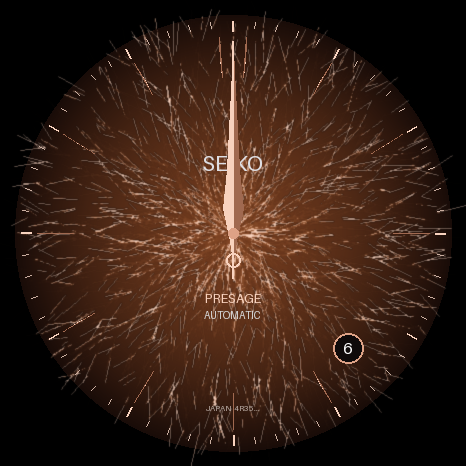
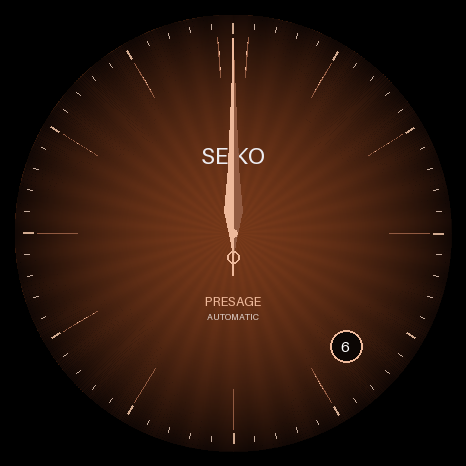
refactor: authentic sunburst dial and 3D faceted indices

diff --git a/scripts/generate_seiko_hd.py b/scripts/generate_seiko_hd.py
@@ -1,7 +1,6 @@
 import os
 import math
-import random
-from PIL import Image, ImageDraw, ImageFilter, ImageEnhance
+from PIL import Image, ImageDraw, ImageFilter
 
 CANVAS_SIZE = (466, 466)
 CENTER = (233, 233)
@@ -12,158 +11,153 @@ RAW_HOUR = "assets/raw/hands/seiko_hour.png"
 RAW_MINUTE = "assets/raw/hands/seiko_minute.png"
 RAW_SECOND = "assets/raw/hands/seiko_second.png"
 
-# Renkler
-ROSE_GOLD = (222, 162, 134, 255)
-ROSE_GOLD_DARK = (160, 105, 80, 255)
-ROSE_GOLD_LIGHT = (248, 210, 190, 255)
-SILVER_TEXT = (220, 220, 225, 240)
-WHITE = (255, 255, 255, 255)
+# Otantik Seiko Rose Gold ve Kadran Renk Paleti
+AMBER_CENTER = (135, 65, 30, 255)       # Kadran merkezi karamel kahve
+DARK_EDGE = (18, 8, 5, 255)            # Dış kenar siyahımsı koyu kahve
+ROSE_LIGHT = (238, 185, 155, 255)       # İndekslerin ışık alan tarafı
+ROSE_DARK = (145, 90, 65, 255)          # İndekslerin gölgeli tarafı
+TRACK_GOLD = (200, 155, 125, 220)       # Dış dakika çizgileri
+SILVER_TEXT = (235, 235, 240, 240)      # SEIKO logosu
 
 os.makedirs("assets/raw/bg", exist_ok=True)
 os.makedirs("assets/raw/hands", exist_ok=True)
 
-def create_textured_background():
+def create_authentic_background():
     img = Image.new("RGBA", CANVAS_SIZE, (0, 0, 0, 255))
-    draw = ImageDraw.Draw(img)
-
-    # 1. Temel Degrade Arka Plan (Sarımsı Kahveden Koyu Siyahımsı Kahveye)
-    for r in range(RADIUS, 0, -1):
-        f = r / RADIUS
-        # Kenarlar koyu kahve/siyah, merkez amber kahve
-        red = int(25 * f + 115 * (1 - f**1.5))
-        green = int(12 * f + 60 * (1 - f**1.5))
-        blue = int(8 * f + 30 * (1 - f**1.5))
-        draw.ellipse([CENTER[0]-r, CENTER[1]-r, CENTER[0]+r, CENTER[1]+r], fill=(red, green, blue, 255))
-
-    # 2. Birebir Cocktail Time Dokusu (Fraktal/Kristalize Efekt)
-    texture = Image.new("RGBA", CANVAS_SIZE, (0, 0, 0, 0))
-    tex_draw = ImageDraw.Draw(texture)
     
-    random.seed(42) # Sabit doku deseni
-    for _ in range(3500):
-        ang = random.uniform(0, 2 * math.pi)
-        dist = random.uniform(0, RADIUS - 10)
-        x = CENTER[0] + dist * math.cos(ang)
-        y = CENTER[1] + dist * math.sin(ang)
-        length = random.uniform(8, 35)
-        ang_line = ang + random.uniform(-0.6, 0.6)
-        x2 = x + length * math.cos(ang_line)
-        y2 = y + length * math.sin(ang_line)
+    # 1. GERÇEK SUNBURST (IŞINSAL MİKRORAY) DOKUSU (360 DERECE 1440 IŞIN)
+    sunburst = Image.new("RGBA", CANVAS_SIZE, (0, 0, 0, 0))
+    sb_draw = ImageDraw.Draw(sunburst)
+    
+    num_rays = 1440  # Çeyrek derecelik hassas ışınlar
+    for i in range(num_rays):
+        angle = math.radians(i * (360.0 / num_rays))
+        x_end = CENTER[0] + RADIUS * math.sin(angle)
+        y_end = CENTER[1] - RADIUS * math.cos(angle)
         
-        alpha = int(random.uniform(15, 55) * (1 - (dist / RADIUS)**2))
-        bright = random.choice([ROSE_GOLD_LIGHT, (170, 95, 55, alpha), (220, 140, 85, alpha)])
-        tex_draw.line([(x, y), (x2, y2)], fill=bright, width=1)
+        # Işık-gölge dalgalanması (Güneş ışını efekti)
+        intensity = math.sin(i * 0.15) * 0.5 + 0.5
+        r_c = int(110 + 40 * intensity)
+        g_c = int(50 + 20 * intensity)
+        b_c = int(20 + 10 * intensity)
+        alpha = int(40 + 50 * intensity)
+        
+        sb_draw.line([(CENTER[0], CENTER[1]), (x_end, y_end)], fill=(r_c, g_c, b_c, alpha), width=1)
+    
+    # 2. RADYAL AMBER / DERİN KAHVE DERECELİ MASKE
+    radial = Image.new("RGBA", CANVAS_SIZE, (0, 0, 0, 0))
+    rad_draw = ImageDraw.Draw(radial)
+    for r in range(RADIUS, 0, -1):
+        factor = (r / RADIUS) ** 1.8  # Kenarlara doğru ivmeli koyulaşma
+        r_col = int(AMBER_CENTER[0] * (1 - factor) + DARK_EDGE[0] * factor)
+        g_col = int(AMBER_CENTER[1] * (1 - factor) + DARK_EDGE[1] * factor)
+        b_col = int(AMBER_CENTER[2] * (1 - factor) + DARK_EDGE[2] * factor)
+        rad_draw.ellipse([CENTER[0]-r, CENTER[1]-r, CENTER[0]+r, CENTER[1]+r], fill=(r_col, g_col, b_col, 210))
 
-    texture = texture.filter(GaussianBlur(0.8))
-    img = Image.alpha_composite(img, texture)
+    img = Image.alpha_composite(img, sunburst)
+    img = Image.alpha_composite(img, radial)
     draw = ImageDraw.Draw(img)
 
-    # 3. Dış Dairesel Dikey Dakika Çizgileri (Halka)
-    r_track = RADIUS - 6
+    # 3. DIŞ DAKİKA/SANİYE ÇİZGİLERİ (OUTER TRACK)
+    r_track_out = RADIUS - 8
+    r_track_in = RADIUS - 18
     for i in range(60):
         ang = math.radians(i * 6)
+        sin_a, cos_a = math.sin(ang), math.cos(ang)
         if i % 5 == 0:
-            x1 = CENTER[0] + (r_track - 10) * math.sin(ang)
-            y1 = CENTER[1] - (r_track - 10) * math.cos(ang)
-            x2 = CENTER[0] + r_track * math.sin(ang)
-            y2 = CENTER[1] - r_track * math.cos(ang)
-            draw.line([(x1, y1), (x2, y2)], fill=ROSE_GOLD_LIGHT, width=2)
+            x1 = CENTER[0] + (r_track_out - 10) * sin_a
+            y1 = CENTER[1] - (r_track_out - 10) * cos_a
+            x2 = CENTER[0] + r_track_out * sin_a
+            y2 = CENTER[1] - r_track_out * cos_a
+            draw.line([(x1, y1), (x2, y2)], fill=TRACK_GOLD, width=2)
         else:
-            x1 = CENTER[0] + (r_track - 6) * math.sin(ang)
-            y1 = CENTER[1] - (r_track - 6) * math.cos(ang)
-            x2 = CENTER[0] + r_track * math.sin(ang)
-            y2 = CENTER[1] - r_track * math.cos(ang)
-            draw.line([(x1, y1), (x2, y2)], fill=(180, 140, 120, 180), width=1)
+            x1 = CENTER[0] + (r_track_out - 5) * sin_a
+            y1 = CENTER[1] - (r_track_out - 5) * cos_a
+            x2 = CENTER[0] + r_track_out * sin_a
+            y2 = CENTER[1] - r_track_out * cos_a
+            draw.line([(x1, y1), (x2, y2)], fill=(160, 120, 95, 160), width=1)
 
-    # 4. Birebir 3D Rose Gold İndeksler (Kama/Arrowhead)
-    def draw_index(angle_deg, is_12=False):
+    # 4. PRİZMATİK 3D ELMAS KESİM (FACETED) İNDEKS ÇİZİMİ
+    def draw_faceted_index(angle_deg, is_double=False):
         ang = math.radians(angle_deg)
+        sin_a, cos_a = math.sin(ang), math.cos(ang)
+        
         r_out = RADIUS - 22
-        r_in = RADIUS - 58 if not is_12 else RADIUS - 62
-        w = 9 if not is_12 else 13
+        r_in = RADIUS - 62
+        width = 10 if not is_double else 8
         
-        # Merkez noktalar
-        cx_out = CENTER[0] + r_out * math.sin(ang)
-        cy_out = CENTER[1] - r_out * math.cos(ang)
-        cx_in = CENTER[0] + r_in * math.sin(ang)
-        cy_in = CENTER[1] - r_in * math.cos(ang)
+        # Nokta hesaplamaları (Prizmatik Ok Başı)
+        pt_out = (CENTER[0] + r_out * sin_a, CENTER[1] - r_out * cos_a)
+        pt_in = (CENTER[0] + r_in * sin_a, CENTER[1] - r_in * cos_a)
         
-        # Dik açılar (Sol ve Sağ Köşeler)
         perp = ang + math.pi/2
-        lx = cx_out - (r_out - r_in)*0.4 * math.sin(ang) + (w/2) * math.cos(perp)
-        ly = cy_out + (r_out - r_in)*0.4 * math.cos(ang) + (w/2) * math.sin(perp)
-        rx = cx_out - (r_out - r_in)*0.4 * math.sin(ang) - (w/2) * math.cos(perp)
-        ry = cy_out + (r_out - r_in)*0.4 * math.cos(ang) - (w/2) * math.sin(perp)
+        mid_r = r_in + (r_out - r_in) * 0.65
+        mid_x = CENTER[0] + mid_r * sin_a
+        mid_y = CENTER[1] - mid_r * cos_a
         
-        # Sol Yüzey (Açık Rose Gold)
-        draw.polygon([(cx_out, cy_out), (lx, ly), (cx_in, cy_in)], fill=ROSE_GOLD_LIGHT)
-        # Sağ Yüzey (Gölgeli Rose Gold - 3D Efekti)
-        draw.polygon([(cx_out, cy_out), (rx, ry), (cx_in, cy_in)], fill=ROSE_GOLD_DARK)
+        pt_left = (mid_x + (width/2) * math.cos(perp), mid_y + (width/2) * math.sin(perp))
+        pt_right = (mid_x - (width/2) * math.cos(perp), mid_y - (width/2) * math.sin(perp))
+        
+        # Sol yüzey (İşık Alan Parfaj)
+        draw.polygon([pt_out, pt_left, pt_in], fill=ROSE_LIGHT)
+        # Sağ yüzey (Gölgede Kalan Parfaj - 3D Efekti)
+        draw.polygon([pt_out, pt_right, pt_in], fill=ROSE_DARK)
 
+    # 12 Saat İndekslerini Yerleştir
     for i in range(12):
         if i == 0:
-            # 12 Yönü Çift Kama
-            draw_index(356, is_12=True)
-            draw_index(4, is_12=True)
+            # 12 Yönü: Çift İkiz Kama (V İndeks)
+            draw_faceted_index(355.5, is_double=True)
+            draw_faceted_index(4.5, is_double=True)
         elif i == 4:
-            # Saat 4.5 Yönündeki Dairesel Tarih Penceresi (İndeks Kısa)
+            # Saat 4:30 civarındaki tarih çerçevesine yer aç
             continue
         else:
-            draw_index(i * 30)
+            draw_faceted_index(i * 30)
 
-    # 5. Dairesel Tarih Penceresi (Saat 4:30 Pozisyonu - Görseldeki Gibi)
-    date_ang = math.radians(135) # 4:30 açısı
-    date_r = RADIUS - 55
+    # 5. SAAT 4.5 YÖNÜ TARİH PENCERESİ VE TİPOGRAFİ
+    date_ang = math.radians(135)
+    date_r = RADIUS - 58
     dx = CENTER[0] + date_r * math.sin(date_ang)
     dy = CENTER[1] - date_r * math.cos(date_ang)
     
-    # Siyah Arka Planlı Yuvarlak Çerçeve
-    draw.ellipse([dx-15, dy-15, dx+15, dy+15], fill=(15, 10, 10, 255), outline=ROSE_GOLD, width=2)
-    draw.text((dx, dy), "6", fill=WHITE, anchor="mm", font_size=16)
+    # Metal çerçeveli tarih halkası
+    draw.ellipse([dx-16, dy-16, dx+16, dy+16], fill=(12, 6, 4, 255), outline=ROSE_LIGHT, width=2)
+    draw.text((dx, dy), "6", fill=(255, 255, 255, 255), anchor="mm", font_size=15)
 
-    # 6. Kabarık Metalik Logolar
-    draw.text((CENTER[0], CENTER[1] - 70), "SEIKO", fill=SILVER_TEXT, anchor="mm", font_size=22)
-    draw.text((CENTER[0], CENTER[1] + 65), "PRESAGE", fill=ROSE_GOLD_LIGHT, anchor="mm", font_size=13)
-    draw.text((CENTER[0], CENTER[1] + 82), "AUTOMATIC", fill=(200, 200, 200, 200), anchor="mm", font_size=10)
-    draw.text((CENTER[0], CENTER[1] + 175), "JAPAN 4R35...", fill=(150, 130, 120, 180), anchor="mm", font_size=8)
+    # Tipografi
+    draw.text((CENTER[0], CENTER[1] - 78), "SEIKO", fill=SILVER_TEXT, anchor="mm", font_size=23)
+    draw.text((CENTER[0], CENTER[1] + 68), "PRESAGE", fill=ROSE_LIGHT, anchor="mm", font_size=13)
+    draw.text((CENTER[0], CENTER[1] + 84), "AUTOMATIC", fill=(210, 190, 180, 210), anchor="mm", font_size=9)
 
     img.save(RAW_BG, "PNG")
-    print(f"[+] HD Birebir Arka Plan Oluşturuldu: {RAW_BG}")
+    print(f"[+] Gerçek Sunburst & 3D İndeks Arka Planı Üretildi: {RAW_BG}")
 
-def create_hd_hands():
-    # Dauphine Akrep (3D Çift Kesim)
+def create_authentic_hands():
+    # 3D Keskin Dauphine Akrep
     img_h = Image.new("RGBA", CANVAS_SIZE, (0, 0, 0, 0))
     draw_h = ImageDraw.Draw(img_h)
-    
-    # Sol Taraf
-    draw_h.polygon([(CENTER[0], CENTER[1] - 120), (CENTER[0] - 10, CENTER[1] - 25), (CENTER[0], CENTER[1] + 22)], fill=ROSE_GOLD_LIGHT)
-    # Sağ Taraf (Gölgeli)
-    draw_h.polygon([(CENTER[0], CENTER[1] - 120), (CENTER[0] + 10, CENTER[1] - 25), (CENTER[0], CENTER[1] + 22)], fill=ROSE_GOLD_DARK)
+    draw_h.polygon([(CENTER[0], CENTER[1] - 122), (CENTER[0] - 9, CENTER[1] - 22), (CENTER[0], CENTER[1] + 20)], fill=ROSE_LIGHT)
+    draw_h.polygon([(CENTER[0], CENTER[1] - 122), (CENTER[0] + 9, CENTER[1] - 22), (CENTER[0], CENTER[1] + 20)], fill=ROSE_DARK)
     img_h.save(RAW_HOUR, "PNG")
 
-    # Dauphine Yelkovan (3D Çift Kesim)
+    # 3D Keskin Dauphine Yelkovan
     img_m = Image.new("RGBA", CANVAS_SIZE, (0, 0, 0, 0))
     draw_m = ImageDraw.Draw(img_m)
-    
-    draw_m.polygon([(CENTER[0], CENTER[1] - 182), (CENTER[0] - 8, CENTER[1] - 25), (CENTER[0], CENTER[1] + 28)], fill=ROSE_GOLD_LIGHT)
-    draw_m.polygon([(CENTER[0], CENTER[1] - 182), (CENTER[0] + 8, CENTER[1] - 25), (CENTER[0], CENTER[1] + 28)], fill=ROSE_GOLD_DARK)
+    draw_m.polygon([(CENTER[0], CENTER[1] - 185), (CENTER[0] - 7, CENTER[1] - 22), (CENTER[0], CENTER[1] + 25)], fill=ROSE_LIGHT)
+    draw_m.polygon([(CENTER[0], CENTER[1] - 185), (CENTER[0] + 7, CENTER[1] - 22), (CENTER[0], CENTER[1] + 25)], fill=ROSE_DARK)
     img_m.save(RAW_MINUTE, "PNG")
 
-    # İnce Rose Gold Saniye İbresi ve Karşı Ağırlık Halkası
+    # Saniye İbresi ve Dairesel İkiz Karşı Ağırlık
     img_s = Image.new("RGBA", CANVAS_SIZE, (0, 0, 0, 0))
     draw_s = ImageDraw.Draw(img_s)
-    
-    # İnce İbre Çizgisi
-    draw_s.line([(CENTER[0], CENTER[1] + 45), (CENTER[0], CENTER[1] - 192)], fill=ROSE_GOLD_LIGHT, width=2)
-    # Arka Dairesel Karşı Ağırlık
-    draw_s.ellipse([CENTER[0]-7, CENTER[1]+20, CENTER[0]+7, CENTER[1]+34], outline=ROSE_GOLD_LIGHT, width=2)
-    # Orta Kapak
-    draw_s.ellipse([CENTER[0]-5, CENTER[1]-5, CENTER[0]+5, CENTER[1]+5], fill=ROSE_GOLD)
+    draw_s.line([(CENTER[0], CENTER[1] + 42), (CENTER[0], CENTER[1] - 195)], fill=ROSE_LIGHT, width=2)
+    draw_s.ellipse([CENTER[0]-6, CENTER[1]+18, CENTER[0]+6, CENTER[1]+30], outline=ROSE_LIGHT, width=2)
+    draw_s.ellipse([CENTER[0]-4, CENTER[1]-4, CENTER[0]+4, CENTER[1]+4], fill=ROSE_LIGHT)
     img_s.save(RAW_SECOND, "PNG")
 
-    print("[+] HD 3D İbreler Oluşturuldu.")
+    print("[+] Otantik 3D İbreler Oluşturuldu.")
 
 if __name__ == "__main__":
-    from PIL.ImageFilter import GaussianBlur
-    create_textured_background()
-    create_hd_hands()
+    create_authentic_background()
+    create_authentic_hands()
